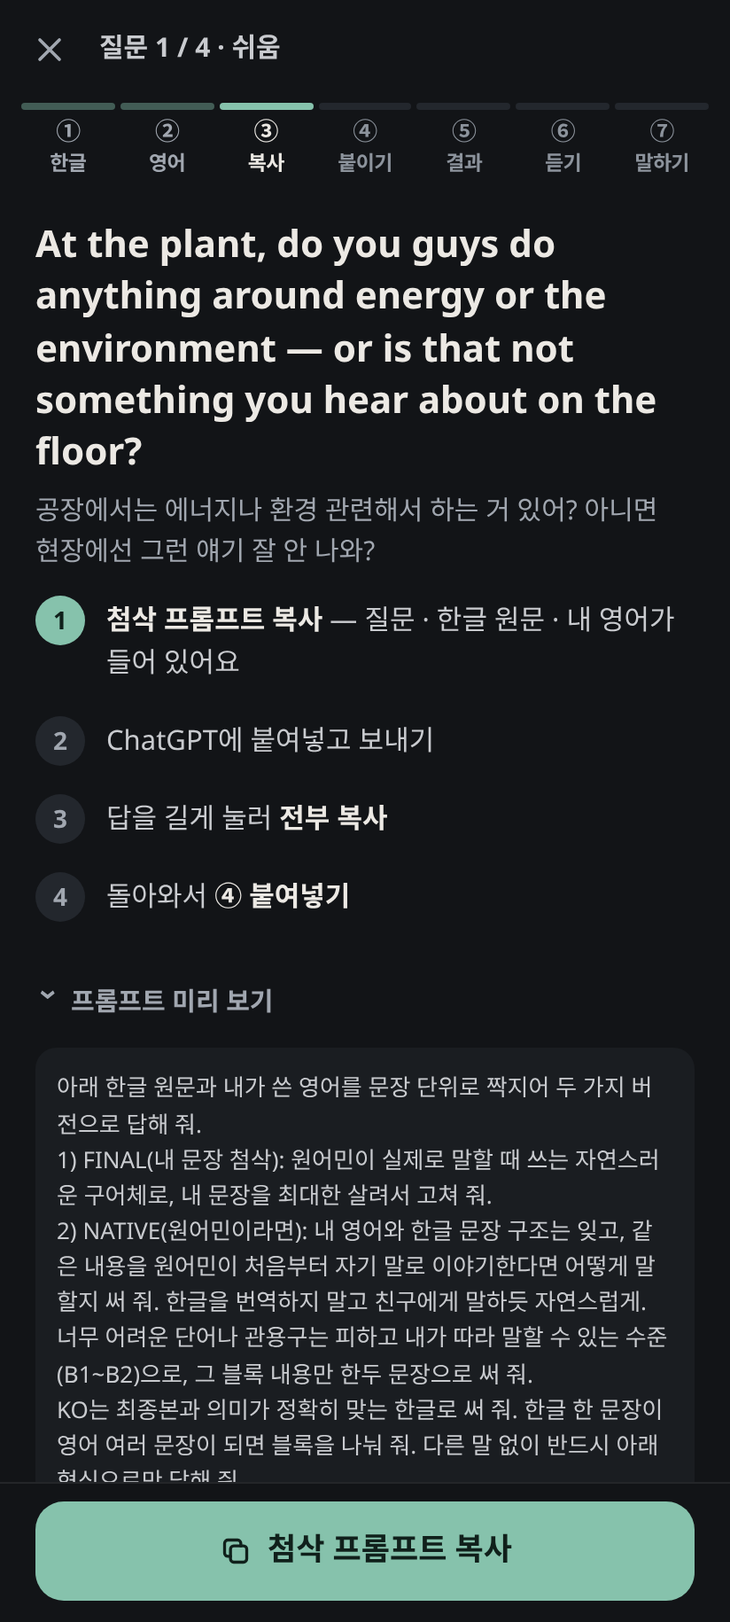
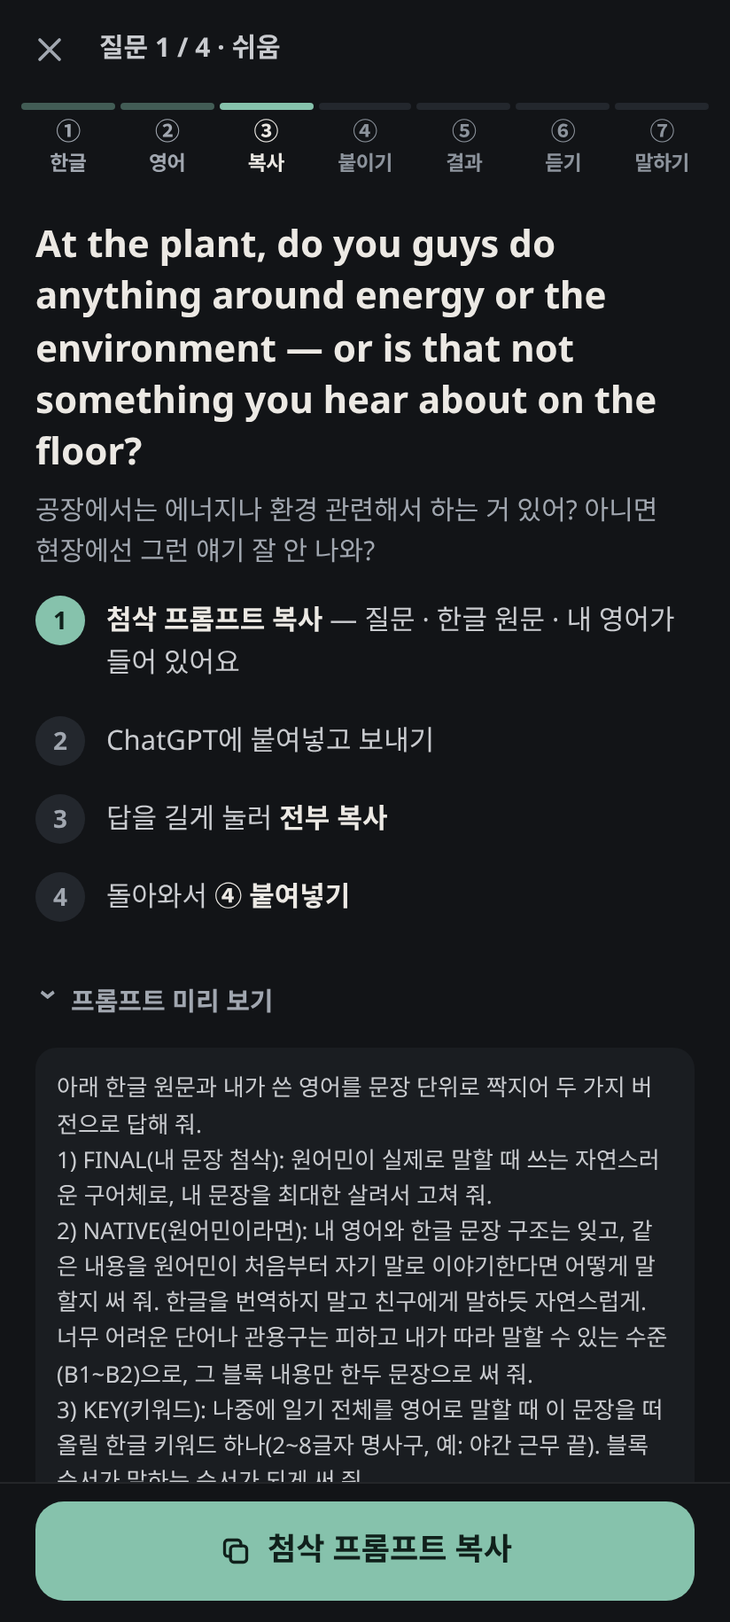
영어일기 ⑦: 키워드 보고 전체 말하기 되살림(프롬프트 KEY, 첨삭본/원어민 버전 따라 영어 보기·듣기, 옛 기록은 흐름·한글 앞부분으로) (v18)

Changed region(s): [[0.0607, 0.841, 0.9102, 0.9344]]

diff --git a/index.html b/index.html
@@ -3,7 +3,7 @@
 <html lang="ko">
 <head>
 <meta charset="utf-8">
-<meta http-equiv="Content-Security-Policy" content="default-src 'none'; script-src 'self' 'sha256-mlcx8WVLIJadIQ8XFgeohtDC2lemhiilt8wW+KzKQwI='; style-src 'unsafe-inline'; connect-src 'self' https://api.elevenlabs.io; media-src blob:; img-src 'self'; manifest-src 'self'; worker-src 'self'; base-uri 'none'; form-action 'none'">
+<meta http-equiv="Content-Security-Policy" content="default-src 'none'; script-src 'self' 'sha256-G3qWHWMyf1DheZ7eV2jopmNI3GPxIR/AApc+BQfwKKQ='; style-src 'unsafe-inline'; connect-src 'self' https://api.elevenlabs.io; media-src blob:; img-src 'self'; manifest-src 'self'; worker-src 'self'; base-uri 'none'; form-action 'none'">
 <meta name="viewport" content="width=device-width, initial-scale=1, viewport-fit=cover">
 <meta name="color-scheme" content="dark light">
 <meta name="theme-color" content="#121417" media="(prefers-color-scheme: dark)">
@@ -461,6 +461,10 @@
   .s7-sec.nat{ margin-top:0; padding-top:0; border-top:0; color:var(--accent); }
   .s7-v.nat{ margin-top:4px; font-size:calc(16.5px * var(--tz)); font-weight:600; color:var(--text); }
   .ver7{ margin-top:14px; }
+  .kw7-seg{ margin-top:10px; }
+  .kw7-seg button{ min-height:48px; }
+  .kw-row{ cursor:pointer; }
+  .kw-row .pe{ font-size:calc(17px * var(--tz)); }
   .ver7 button{ min-height:48px; }
   .df-add{ border-radius:4px; background:var(--yel-soft); box-shadow:0 0 0 2px var(--yel-soft); color:var(--text); }
   .df-del{ color:var(--red); text-decoration:line-through; text-decoration-thickness:1.5px; opacity:.85; }
@@ -1769,11 +1773,12 @@ function applyPaste(it, text) {
 /* =====================================================================
    일기 첨삭 프롬프트 · 결과 읽기 (2026-11-17 — 일기 7단계. 오픽은 위 opicPrompt·parseFix 그대로)
    d7Prompt: 지시문(사용자가 정한 글 — 한 글자도 바꾸지 않음) + 질문(영어·한글) + 한글 원문 + 내 영어
-   답 형식: ### 로 나눈 블록마다 KO / MY / FINAL / TYPE(통과·단어수정·구조수정) / WHY / NATIVE(원어민이라면 — 2026-11-17 추가, 없는 옛 답도 읽음)
+   답 형식: ### 로 나눈 블록마다 KO / MY / FINAL / TYPE(통과·단어수정·구조수정) / WHY / NATIVE(원어민이라면) / KEY(한글 키워드 — ⑦ 키워드 보고 말하기) — NATIVE·KEY는 2026-11-17 추가, 없는 옛 답도 읽음
    ===================================================================== */
 const D7_INSTR = "아래 한글 원문과 내가 쓴 영어를 문장 단위로 짝지어 두 가지 버전으로 답해 줘.\n" +
   "1) FINAL(내 문장 첨삭): 원어민이 실제로 말할 때 쓰는 자연스러운 구어체로, 내 문장을 최대한 살려서 고쳐 줘.\n" +
   "2) NATIVE(원어민이라면): 내 영어와 한글 문장 구조는 잊고, 같은 내용을 원어민이 처음부터 자기 말로 이야기한다면 어떻게 말할지 써 줘. 한글을 번역하지 말고 친구에게 말하듯 자연스럽게. 너무 어려운 단어나 관용구는 피하고 내가 따라 말할 수 있는 수준(B1~B2)으로, 그 블록 내용만 한두 문장으로 써 줘.\n" +
+  "3) KEY(키워드): 나중에 일기 전체를 영어로 말할 때 이 문장을 떠올릴 한글 키워드 하나(2~8글자 명사구, 예: 야간 근무 끝). 블록 순서가 말하는 순서가 되게 써 줘.\n" +
   "KO는 최종본과 의미가 정확히 맞는 한글로 써 줘. 한글 한 문장이 영어 여러 문장이 되면 블록을 나눠 줘. 다른 말 없이 반드시 아래 형식으로만 답해 줘.\n" +
   "###\n" +
   "KO: (한글 문장)\n" +
@@ -1782,6 +1787,7 @@ const D7_INSTR = "아래 한글 원문과 내가 쓴 영어를 문장 단위로 
   "TYPE: 통과 / 단어수정 / 구조수정 중 하나\n" +
   "WHY: (한국어 한 줄 설명, 통과면 비움)\n" +
   "NATIVE: (같은 내용을 원어민이 직접 말한다면)\n" +
+  "KEY: (한글 키워드 하나)\n" +
   "###";
 function d7Prompt(q, ko, en) {
   return D7_INSTR + "\n\n" +
@@ -1792,14 +1798,15 @@ function d7Prompt(q, ko, en) {
 /* 읽기(너그럽게): 코드블록·굵게·`코드`·글머리(- * >)·번호(1. 1) ①)·전각 콜론·대소문자·한글 이름표(한글/내 영어/최종/유형/이유) 무시.
    ### 줄로 블록을 나눔. ###가 없거나 빠졌으면 이미 나온 이름표가 다시 나올 때 새 블록. 맨 앞·맨 뒤의 이름표 없는 글(인사말 등)은 버림.
    블록 = FINAL이 있으면 읽음. 이름표가 없거나 FINAL이 없는 블록은 번호(n번째)로 bad에 → 화면에 알림, 나머지는 저장
-   → { sents: [{ ko, my, final, type, why, native? }], bad: [블록 번호], noKo: [블록 번호], total } — native는 있을 때만 */
+   → { sents: [{ ko, my, final, type, why, native?, key? }], bad: [블록 번호], noKo: [블록 번호], total } — native는 있을 때만 */
 const D7_KEYS = [
   ["ko", /^(?:ko|kr|kor|korean|한글|한국어|한글\s*문장|번역)$/i],
   ["my", /^(?:my|mine|my\s*english|me|내\s*영어|내가\s*쓴\s*영어|내\s*문장|원문)$/i],
   ["final", /^(?:final|fin|최종|최종본|최종\s*영어|최종\s*문장|고친\s*문장)$/i],
   ["type", /^(?:type|유형|타입|종류)$/i],
   ["why", /^(?:why|reason|이유|설명)$/i],
-  ["native", /^(?:native|native\s*version|nat|natural|원어민|원어민\s*버전|원어민이라면|네이티브)$/i]
+  ["native", /^(?:native|native\s*version|nat|natural|원어민|원어민\s*버전|원어민이라면|네이티브)$/i],
+  ["key", /^(?:key|keys|keyword|keywords|kw|cue|키워드|핵심어|핵심\s*키워드|한글\s*키워드)$/i]
 ];
 function d7Key(name) { const n = name.replace(/\s+/g, " ").trim(); const k = D7_KEYS.find(x => x[1].test(n)); return k ? k[0] : null; }
 function d7Clean(src) {
@@ -1852,6 +1859,8 @@ function parseD7(raw) {
     const s = { ko, my, final: fin, type: d7Type(f.type, my, fin), why: unquote(f.why) };
     const nat = unquote(f.native);
     if (nat && /[A-Za-z]/.test(nat)) s.native = nat;                           // 원어민 버전 — 없으면 칸을 안 만듦(옛 답과 같은 모양)
+    const key = unquote(f.key).replace(/^[\[(（]\s*|\s*[\])）]$/g, "").trim();
+    if (key) s.key = key.length > 30 ? key.slice(0, 30) + "…" : key;           // ⑦ 키워드 보고 말하기 — 없으면 칸을 안 만듦
     sents.push(s);
   });
   return { sents, bad, noKo, total: recs.length };
@@ -2426,7 +2435,7 @@ function renderDiary(w, q, it, n) {
     const val = F.pdraft != null ? F.pdraft : it.paste || "";
     body = '<p class="q-ko" style="margin-top:4px">ChatGPT 답을 전부 복사해서 아래에 붙여넣고 [적용]을 눌러요. 앞뒤 인사말이나 번호가 섞여 있어도 괜찮아요.</p>' +
       d7NoticeHtml(it) +
-      '<textarea class="wr paste7" id="d7Paste" placeholder="###&#10;KO: …&#10;MY: …&#10;FINAL: …&#10;TYPE: …&#10;WHY: …&#10;NATIVE: …&#10;###" spellcheck="false">' + esc(val) + "</textarea>" +
+      '<textarea class="wr paste7" id="d7Paste" placeholder="###&#10;KO: …&#10;MY: …&#10;FINAL: …&#10;TYPE: …&#10;WHY: …&#10;NATIVE: …&#10;KEY: …&#10;###" spellcheck="false">' + esc(val) + "</textarea>" +
       (sents.length ? '<p class="note">지금 저장된 문장 ' + sents.length + "개 · 다시 적용하면 바뀌어요</p>" : "");
     foot = '<div class="two"><button class="outline-btn sm" data-act="d7-clip">' + IC.paste + '<span>클립보드</span></button>' +
       '<button class="go" data-act="d7-apply" ' + (val.trim() ? "" : "disabled") + ">" + IC.check + "적용</button></div>" +
@@ -2453,8 +2462,10 @@ function renderDiary(w, q, it, n) {
     foot = '<button class="go" data-act="d7-next">⑦ 말하기 연습으로' + IC.arrow + "</button>";
   } else if (v === 6) {                                                      // ⑦ 말하기 연습
     const nat = useNative(sents), list = sents.map(s => ({ ko: s.ko, final: sayOf(s, nat) }));
-    [body, foot] = spkView(list, "q:" + F.ch + ":" + F.qid + ":" + hashStr(list.map(s => s.final).join("\n")), "질문 완료", true);
-    body = ver7Html(sents) + body;
+    kwSync();
+    if (KW.mode === "kw") [body, foot] = kwView(it, sents, nat);
+    else [body, foot] = spkView(list, "q:" + F.ch + ":" + F.qid + ":" + hashStr(list.map(s => s.final).join("\n")), "질문 완료", true, "kw7-kw");
+    body = ver7Html(sents) + kwModeHtml() + body;
   } else {                                                                   // 완료
     const nx = nextEntry(w);
     body = '<div class="donebox"><div class="em">🎉</div><h2>질문 ' + n + " 완료</h2><p>" + esc(q.ko) + "</p></div>" +
@@ -2467,7 +2478,7 @@ function renderDiary(w, q, it, n) {
   FL.foot.innerHTML = foot;
   if (v === 0) srPaint();
   if (v === 5) setupL7();
-  if (v === 6) setupRecite();
+  if (v === 6) { if (KW.mode === "kw") setupKw(); else setupRecite(); }
 }
 function d7Input(it, t) {
   if (t.id === "d7Ko") {
@@ -2541,16 +2552,105 @@ async function onDiaryAct(w, q, it, act, b) {
     if (swapQuestion(w, F.qid)) { F.qid = w.qs[slot]; buzz(); toast("다른 질문으로 바꿨어요"); enterQuestion(w, F.qid); renderFlow(); }
     return;
   }
-  if (act.startsWith("sp7-")) {
-    spkAct(act, () => {                                                       // ⑦ 끝 → 질문 완료
-      it.step = "done";
-      if (!it.doneOn) it.doneOn = dateKey();
-      it.p7 = 6;
-      SPK.key = "";
-      F.view = D7_DONE;
-      save(); buzz(); renderFlow(); FL.body.scrollTop = 0;
-    });
+  const finish = () => {                                                      // ⑦ 끝 → 질문 완료
+    it.step = "done";
+    if (!it.doneOn) it.doneOn = dateKey();
+    it.p7 = 6;
+    SPK.key = "";
+    KW.q = "";
+    F.view = D7_DONE;
+    save(); buzz(); renderFlow(); FL.body.scrollTop = 0;
+  };
+  if (act.startsWith("sp7-")) { spkAct(act, finish); return; }
+  if (act.startsWith("kw7-")) { kwAct(it, act, b, finish); return; }
+  if (act === "sp-play") { recPlay(); return; }
+  if (act === "sp-save") { recSave(); return; }
+}
+
+/* ---------- ⑦ 키워드 보고 말하기 (2026-11-17 — 7단계로 바꿀 때 빠졌던 '키워드 보고 말하기'를 ⑦ 안의 방식으로 되살림) ----------
+   ⑦ 위 [한 문장씩 | 키워드로 전체]. 키워드로 전체 = 한글 키워드(.kw-seq, 문장 순서)만 보고 일기 전체를 영어로 → [말하기 시작](타이머 + 녹음, 예전 말하기 단계와 같은 코드)
+   → [다 말했어요] → [영어 보기] = 전체 영어(첨삭본/원어민 버전 토글을 따름) + [전체 듣기]·문장 누르면 그 문장만 → [질문 완료].
+   키워드: 문장마다 KEY(새 프롬프트) → 없으면 옛 기록의 [흐름](→로 나눔) → 그것도 없으면 한글 문장 앞 두 어절 + "…".
+   KW = 지금 질문의 방식·영어 보기(저장 안 함 — 질문을 바꾸면 한 문장씩부터). 말한 시간은 it.kwSpoke { sec, on } */
+const KW = { q: "", mode: "sent", shown: false };
+function kwSync() { const q = F.ch + ":" + F.qid; if (KW.q !== q) Object.assign(KW, { q, mode: "sent", shown: false }); }
+const kwFromKo = ko => { const w = String(ko || "").trim().replace(/[.,!?。…~]+$/, "").split(/\s+/).filter(Boolean); return w.length ? w.slice(0, 2).join(" ") + (w.length > 2 ? " …" : "") : ""; };
+/* → { list: [키워드], src: "key" | "flow" | "ko" | "mix" } */
+function kwCues(it) {
+  const ss = sentsOf(it), withKey = ss.filter(s => s.key).length;
+  if (withKey) return { list: ss.map((s, i) => s.key || kwFromKo(s.ko) || (i + 1) + "번 문장"), src: withKey === ss.length ? "key" : "mix" };
+  const flow = String(it && it.flow || "").split(/\s*(?:→|->|⇒|>)\s*/).map(x => x.trim()).filter(Boolean);
+  if (flow.length > 1) return { list: flow, src: "flow" };
+  return { list: ss.map((s, i) => kwFromKo(s.ko) || (i + 1) + "번 문장"), src: "ko" };
+}
+/* 목표 시간 = 말할 영어 단어 수 × 0.6초(예전 말하기 단계와 같음), 10초 단위, 30초~2분 30초 */
+const kwGoal = texts => Math.max(30, Math.min(150, Math.round(texts.reduce((n, t) => n + wordCount(t), 0) * 0.6 / 10) * 10));
+function kwModeHtml() {
+  return '<div class="seg kw7-seg" role="group" aria-label="말하기 방식"><button data-act="kw7-sent" aria-pressed="' + (KW.mode !== "kw") + '">한 문장씩</button>' +
+    '<button data-act="kw7-kw" aria-pressed="' + (KW.mode === "kw") + '">🔑 키워드로 전체</button></div>';
+}
+function kwView(it, sents, nat) {
+  const ctx = "kw:" + F.qid, state = timerState(ctx), cues = kwCues(it), texts = sents.map(s => sayOf(s, nat)), goal = kwGoal(texts);
+  const srcNote = cues.src === "flow" ? "예전 첨삭의 [흐름]으로 보여 줘요." : cues.src === "ko" ? "키워드가 없는 답이라 한글 문장 앞부분으로 보여 줘요." : cues.src === "mix" ? "키워드가 없는 문장은 한글 앞부분으로 보여 줘요." : "";
+  let body = '<div class="box-t" style="margin-top:18px">한글 키워드를 순서대로 보며 일기 전체를 영어로 말해 보세요</div>' +
+    '<ol class="kw-seq" id="kwSeq">' + cues.list.map(k => "<li>" + esc(k) + "</li>").join("") + "</ol>" +
+    (srcNote ? '<p class="note">' + srcNote + "</p>" : "") +
+    timerHtml(ctx, goal, it.kwSpoke ? "지난번 " + fmtSec(it.kwSpoke.sec) + " 말했어요 · 다시 해도 돼요" : "[말하기 시작]을 누르고 말해요. 시간이 막대로 보여요",
+      '<div id="recLive">' + recLiveHtml() + "</div>") +
+    '<div id="recBox">' + recBoxHtml() + "</div>";
+  if (KW.shown) body += '<div class="box-t" style="margin-top:18px">' + (nat ? "🗣 원어민 버전" : "✏ 첨삭본") + " 전체</div>" +
+    '<div class="l7-bar"><button class="ls-play" data-act="kw7-play">' + IC.play + "전체 듣기</button></div>" +
+    '<ul class="pairs" id="kwList">' + texts.map((t, i) => '<li class="pair ls-row kw-row" data-act="kw7-one" data-i="' + i + '"><span class="pn">' + (i + 1) + '</span><div class="pb"><div class="pe" lang="en">' +
+      scriptHtml(t) + "</div></div></li>").join("") + "</ul>" +
+    '<p class="note">문장을 누르면 그 문장만 들어요. 외운 문장 그대로가 아니어도 괜찮아요.</p>';
+  else body += '<p class="note">외운 문장 그대로가 아니어도 괜찮아요. 막히면 다른 말로 돌려 말해요.</p>';
+  let foot;
+  if (state === "running") foot = '<button class="go" data-act="kw7-stop">' + IC.check + "다 말했어요</button>";
+  else if (KW.shown) foot = '<button class="go" data-act="kw7-finish">' + IC.check + "질문 완료</button>" +
+    '<div class="sub-row"><button class="sub-btn" data-act="kw7-start">다시 말해 보기</button></div>';
+  else if (state === "stopped") foot = '<button class="go" data-act="kw7-show">' + IC.speaker + "영어 보기</button>" +
+    '<div class="sub-row"><button class="sub-btn" data-act="kw7-start">다시 말해 보기</button></div>';
+  else foot = '<button class="go" data-act="kw7-start">' + IC.play + "말하기 시작</button>" +
+    '<div class="sub-row"><button class="sub-btn" data-act="kw7-show">시간 재지 않고 영어 보기</button></div>';
+  return [body, foot];
+}
+function setupKw() {
+  setupTimer();
+  if (!KW.shown || !FL.body.querySelector(".kw-row")) return;
+  F.rd = lsReader(".kw-row", { rate: () => settings.lsRate, gap: 450, onChange: paintKw });
+  paintKw();
+}
+function paintKw() {
+  const b = FL.body.querySelector('[data-act="kw7-play"]');
+  if (!b || !F.rd) return;
+  const s = F.rd.state(), all = s.active && !s.single;
+  b.innerHTML = all && !s.paused ? IC.pause + "일시정지" : all ? IC.play + "이어 듣기" : IC.play + "전체 듣기";
+}
+function kwAct(it, act, b, finish) {
+  const ctx = "kw:" + F.qid;
+  if (act === "kw7-sent" || act === "kw7-kw") {
+    const m = act === "kw7-kw" ? "kw" : "sent";
+    if (KW.mode === m) return;
+    KW.mode = m; KW.shown = false; SPK.key = "";
+    buzz(); renderFlow(); FL.body.scrollTop = 0; return;
   }
+  if (act === "kw7-start") {
+    const sents = sentsOf(it), nat = useNative(sents);
+    KW.shown = false;
+    recStart(ctx, fChapter().qs.indexOf(F.qid) + 1);
+    timerStart(ctx, kwGoal(sents.map(s => sayOf(s, nat))));
+    return;
+  }
+  if (act === "kw7-stop") { const sec = timerStop(); recStop(); if (sec != null) { it.kwSpoke = { sec, on: dateKey() }; save(); } renderFlow(); return; }
+  if (act === "kw7-show") { KW.shown = true; buzz(); renderFlow(); const l = $("kwList"); if (l) autoScroll(FL.body, FL.body.scrollTop + l.getBoundingClientRect().top - FL.body.getBoundingClientRect().top - 120); return; }
+  if (act === "kw7-play") { if (!F.rd) return; const s = F.rd.state(); if (s.active && !s.single) F.rd.toggle(); else F.rd.play(0, 0, false); buzz(); return; }
+  if (act === "kw7-one") {
+    if (!F.rd) return;
+    const i = +b.dataset.i, s = F.rd.state();
+    if (s.active && s.single && s.index === i) F.rd.stop(); else F.rd.play(i, 0, true);
+    return;
+  }
+  if (act === "kw7-finish") finish();
 }
 
 /* ---------- ① 음성 입력 (Web Speech API, ko-KR) ----------
@@ -2681,7 +2781,7 @@ function spkSync(key, n) {
   Object.assign(SPK, { key, n, order: Array.from({ length: n }, (_, i) => i), i: 0, shown: false, shuf: false });
 }
 /* list = [{ ko, final, sub?(질문 이름) }] · finish = 마지막 버튼 글 · subFinish = 마지막 전에도 작은 [finish] 버튼 */
-function spkView(list, key, finish, subFinish) {
+function spkView(list, key, finish, subFinish, lastAct) {          // lastAct = 마지막 카드의 큰 버튼을 [키워드 보고 말하기로]로(일기 ⑦)
   spkSync(key, list.length);
   const n = list.length;
   if (!n) return ['<div class="warn">말해 볼 문장이 없어요.</div>', ""];
@@ -2698,9 +2798,9 @@ function spkView(list, key, finish, subFinish) {
   body += "</div>";
   const prev = '<button class="outline-btn sm" data-act="sp7-prev" ' + (SPK.i ? "" : "disabled") + ">이전</button>";
   let foot = SPK.shown
-    ? '<div class="two">' + prev + (last ? '<button class="go" data-act="sp7-finish">' + IC.check + esc(finish) + "</button>" : '<button class="go" data-act="sp7-next">다음 문장' + IC.arrow + "</button>") + "</div>"
+    ? '<div class="two">' + prev + (last ? (lastAct ? '<button class="go" data-act="' + lastAct + '">키워드로 전체 말하기' + IC.arrow + "</button>" : '<button class="go" data-act="sp7-finish">' + IC.check + esc(finish) + "</button>") : '<button class="go" data-act="sp7-next">다음 문장' + IC.arrow + "</button>") + "</div>"
     : '<div class="two">' + prev + '<button class="go" data-act="sp7-show">' + IC.speaker + "영어 보기</button></div>";
-  if (subFinish && !(SPK.shown && last)) foot += '<div class="sub-row"><button class="sub-btn" data-act="sp7-finish">' + esc(finish) + "</button></div>";
+  if (subFinish && (lastAct || !(SPK.shown && last))) foot += '<div class="sub-row"><button class="sub-btn" data-act="sp7-finish">' + esc(finish) + "</button></div>";
   return [body, foot];
 }
 function spkAct(act, onFinish) {
@@ -3341,7 +3441,7 @@ function goNext(w) {
 const nextLabel = nx => nx.kind === "q" ? "다음: 질문 " + nx.n : nx.kind === "gpt" ? "다음: GPT 대화 " + nx.n : "다음: 챕터 복습";
 /* 지금 화면의 타이머 이름(다르면 타이머를 지움) · 암송 카드 이름(다르면 영어를 다시 숨김) */
 function flowCtx() {
-  if (F.kind === "q") return F.warm ? "warm:" + F.qid : F.op && F.view === 4 ? "speak:" + F.qid : "";
+  if (F.kind === "q") return F.warm ? "warm:" + F.qid : F.op && F.view === 4 ? "speak:" + F.qid : !F.op && F.view === 6 && KW.mode === "kw" && KW.q === F.ch + ":" + F.qid ? "kw:" + F.qid : "";
   if (F.kind === "review") { const w = fChapter(), rv = w && w.review; return rv && rv.phase === "cond" ? "rv:" + rv.cq[rv.ci] : ""; }
   return "";
 }

diff --git a/sw.js b/sw.js
@@ -5,7 +5,7 @@
      앱 화면에는 "새 버전이 나왔어요 [새로 고침]" 막대가 뜸(index.html '앱 업데이트').
    - 같은 github.io 주소를 쓰는 한 장 영어와 저장 공간(Cache Storage)을 같이 쓰므로, **지울 때는 ediary- 로 시작하는 옛 저장소만** 지움.
    - ElevenLabs 같은 다른 사이트 요청, GET이 아닌 요청은 건드리지 않음(음성은 앱이 IndexedDB ediary-tts에 따로 저장). */
-const CACHE = "ediary-v17";
+const CACHE = "ediary-v18";
 const CORE = ["./", "./index.html", "./manifest.webmanifest", "./icon-192.png", "./icon-512.png", "./icon-maskable-512.png", "./data/topics.js", "./data/opic_topics.js"];
 
 self.addEventListener("install", e => {

diff --git a/CLAUDE.md b/CLAUDE.md
@@ -50,6 +50,9 @@ GitHub Pages로 배포하고 폰에 설치(PWA)해서 씀. 빌드 도구 없음 
 - ⑤ 문장 카드: 한글 / [✏ 내 문장 첨삭] 내 영어 / 최종본 / 설명 / [🗣 원어민이라면](NATIVE가 있을 때만 — 없으면 이름표도 안 나옴) + 유형 태그(통과 초록 `--accent` · 단어수정 노랑 `--yel` · 구조수정 빨강 `--red`). 내 영어↔최종본 단어 비교(`wordDiff` — 단어 LCS, 대소문자·문장부호 무시): 최종본의 바뀐·더한 단어 노란 배경, 내 영어의 빠진 단어 줄긋기.
 - ⑥ 듣기: 최종본 문장 목록, 노래방 강조 + 읽는 문장 따라 스크롤, 문장 누르면 그 문장만(다시 누르면 멈춤), [한 문장 반복](`settings.lsRep`), 속도 0.75/1/1.25(`settings.lsRate` — 듣기 탭·암송 속도 `rate`와 따로), [연속 재생], [듣기 탭에서 이어 듣기]. 음성은 예전 `Player`(ElevenLabs → IndexedDB `ediary-tts` 캐시 — 같은 글·목소리면 다시 안 부름).
 - ⑥·⑦ 위 [✏ 첨삭본 | 🗣 원어민 버전](2026-11-17, `settings.ver7` "fin"/"nat", 처음엔 첨삭본) — 원어민 버전이 있는 문장이 하나라도 있을 때만 보임. 원어민 버전이 없는 문장은 첨삭본으로. 음성 캐시는 글 기준이라 버전을 오가도 같은 글은 한 번만 만듦. 듣기 탭(드라이브)·챕터 복습·구조수정 모아보기·완료 화면은 최종본(FINAL) 그대로(`itPairs`).
+- ⑦ 위 [한 문장씩 | 🔑 키워드로 전체](2026-11-17 — 7단계로 바꿀 때 빠졌던 '키워드 보고 말하기'를 되살림, `KW` — 저장 안 함, 질문을 바꾸면 한 문장씩부터). 한 문장씩의 마지막 카드 큰 버튼 = [키워드로 전체 말하기](작은 [질문 완료]도 있음).
+  키워드로 전체: 한글 키워드(`.kw-seq`, 문장 순서)만 보고 일기 전체를 영어로 → [말하기 시작](타이머 + 녹음, 예전 말하기 단계 코드 — 타이머 이름 `kw:질문 id`, 목표 = 단어 수 × 0.6초, 30초~2분 30초) → [다 말했어요](`it.kwSpoke { sec, on }`) → [영어 보기] = 전체 영어(첨삭본/원어민 버전 토글을 따름) + [전체 듣기]·문장 누르면 그 문장만 → [질문 완료].
+  키워드(`kwCues`): 문장마다 KEY → 하나도 없으면 옛 기록의 `flow`(→로 나눔) → 그것도 없으면 한글 문장 앞 두 어절 + " …"(일부만 없으면 그 문장만 한글 앞부분). 어디서 왔는지 한 줄 안내.
 - ⑦ 말하기 연습: 한 문장씩 한글만 → [영어 보기] → 최종본 + 소리 자동 재생 → [다음 문장]/[이전], 순서 [순서대로 | 섞기](`spkView` — 구조수정 모아보기와 같은 화면). 마지막 [질문 완료](작은 [질문 완료]는 언제든).
 - 워밍업(앞 질문 키워드)은 옛 기록에 키워드가 있을 때만 나옴(새 흐름엔 키워드 없음). 챕터 복습 '조건 바꿔 말하기'도 `conds`가 있는 옛 질문만.
 - 최종본 문장 짝은 `itPairs(it)`로 읽음 — `sents`가 있으면 FINAL·KO, 없으면 옛 `pairs`. 듣기 탭(DD)·챕터 복습·GPT 대화 프롬프트·기록이 이걸 씀. 들을 게 있는지 = `hasFinal(it)`.
@@ -82,7 +85,7 @@ GitHub Pages로 배포하고 폰에 설치(PWA)해서 씀. 빌드 도구 없음 
 
 | 키 | 내용 |
 |---|---|
-| `ediary.chapters.v1` | 챕터 기록 `{ v, count, seq, chapters: [...] }` — 모양은 `index.html` '저장' 주석. 일기 항목에 2026-11-17부터 `p7`(0~6) · `ko`(① 한글) · `sents: [{ ko, my, final, type(통과/단어수정/구조수정/"" = 모름), why, native?(원어민 버전 — 2026-11-17, 있을 때만) }]` · `paste`(붙여넣은 원문) · `bad`·`noKo`(못 읽은·한글 없는 블록 번호) · `copied7` 추가. ② 내 영어는 `text` |
+| `ediary.chapters.v1` | 챕터 기록 `{ v, count, seq, chapters: [...] }` — 모양은 `index.html` '저장' 주석. 일기 항목에 2026-11-17부터 `p7`(0~6) · `ko`(① 한글) · `sents: [{ ko, my, final, type(통과/단어수정/구조수정/"" = 모름), why, native?(원어민 버전 — 2026-11-17, 있을 때만), key?(한글 키워드 — 2026-11-17, 있을 때만) }]` · `paste`(붙여넣은 원문) · `bad`·`noKo`(못 읽은·한글 없는 블록 번호) · `copied7` 추가. ② 내 영어는 `text` |
 | `ediary.chapters.v1.backup` | 7단계로 옮기기 전 챕터 원본 글(처음 한 번, 이미 있으면 안 덮음) |
 | `ediary.weeks.v1` | 옛 주 단위 기록. **지우지 않음**, 새 코드는 읽기만(옮기기용) |
 | `ediary.weeks.v1.backup` | 옮기기 전 원본 글 그대로(처음 옮길 때 한 번, 이미 있으면 안 덮음) |
@@ -112,7 +115,7 @@ GitHub Pages로 배포하고 폰에 설치(PWA)해서 씀. 빌드 도구 없음 
 
 - 일기 첨삭 프롬프트 `d7Prompt`(2026-11-17): 지시문 `D7_INSTR`(사용자가 정한 글 — 고쳐 달라는 말이 없으면 한 글자도 바꾸지 않음) + `[질문]`(영어·한글) + `[한글 원문]` + `[내가 쓴 영어]`. 지시문이 "아래 …"라서 맨 앞에 둠.
 - 두 가지 버전(2026-11-17, 사용자 요청): FINAL = 내 문장을 살려 고친 첨삭본, NATIVE = 내 영어·한글 구조와 상관없이 같은 내용을 원어민이 처음부터 말한다면(번역 아님, B1~B2로 따라 말할 수 있게, 블록당 한두 문장).
-- 답 형식: `###`로 나눈 블록마다 `KO: / MY: / FINAL: / TYPE: 통과·단어수정·구조수정 / WHY: / NATIVE:` — `parseD7`로 읽음. NATIVE는 없어도 됨(옛 답·옛 기록 그대로 읽힘), 이름표 변형 native·native version·원어민·원어민이라면·원어민 버전·네이티브, 영어 없는 NATIVE는 버림. 너그럽게: 빈 줄·번호(1. 1) ①)·굵게·`코드`·글머리(- * >)·코드블록·전각 콜론·대소문자·한글 이름표(한글·내 영어·최종·유형·이유), WHY 없음, TYPE 변형(통과(PASS)·pass·단어 수정·word·구조 수정·structure·괄호·이모지). `###`가 없으면 같은 이름표가 다시 나올 때 새 블록. 맨 앞·맨 뒤 이름표 없는 글은 버림. FINAL 없는 블록 = 못 읽은 블록(번호로 알림). 프롬프트 형식을 바꾸면 읽는 코드도 같이.
+- 답 형식: `###`로 나눈 블록마다 `KO: / MY: / FINAL: / TYPE: 통과·단어수정·구조수정 / WHY: / NATIVE: / KEY:` — `parseD7`로 읽음. KEY = ⑦ 키워드 보고 말하기용 한글 키워드 하나(2~8글자 명사구, 블록 순서 = 말하는 순서 — 문장마다 붙어서 순서가 안 어긋남), 이름표 변형 key·keyword·kw·키워드·핵심어, 앞뒤 괄호 벗김, 30자 넘으면 자름. NATIVE·KEY는 없어도 됨(옛 답·옛 기록 그대로 읽힘), 이름표 변형 native·native version·원어민·원어민이라면·원어민 버전·네이티브, 영어 없는 NATIVE는 버림. 너그럽게: 빈 줄·번호(1. 1) ①)·굵게·`코드`·글머리(- * >)·코드블록·전각 콜론·대소문자·한글 이름표(한글·내 영어·최종·유형·이유), WHY 없음, TYPE 변형(통과(PASS)·pass·단어 수정·word·구조 수정·structure·괄호·이모지). `###`가 없으면 같은 이름표가 다시 나올 때 새 블록. 맨 앞·맨 뒤 이름표 없는 글은 버림. FINAL 없는 블록 = 못 읽은 블록(번호로 알림). 프롬프트 형식을 바꾸면 읽는 코드도 같이.
 - 옛 일기 프롬프트 `fixPrompt`(`[최종본] / [더 말하고 싶을 때] / [흐름] / [키워드] / [조건]`)는 이제 안 씀(코드는 남겨 둠).
 - 오픽 첨삭 프롬프트 `opicPrompt`는 `[최종본] / [흐름]`만 받음(같은 `parseFix`로 읽음).
 - `opicPrompt`(2026-10-30): 목표 AL, 2026-10-29부터 AI 자동 채점(ACTFL 기준 그대로) 반영 — 질문 적중·암기 티 제거·미국식 구어·ASR에 잘 잡히는 15단어 이하 문장.
@@ -130,7 +133,7 @@ GitHub Pages로 배포하고 폰에 설치(PWA)해서 씀. 빌드 도구 없음 
 
 ## 테스트
 
-- 원어민 버전 테스트: `/workspace/ediary-test/test-native.js`(`node test-native.js` — 스크린샷 `shots/native-*.png`).
+- 원어민 버전 테스트: `/workspace/ediary-test/test-native.js`(`node test-native.js` — 스크린샷 `shots/native-*.png`·`shots/kw-*.png` — 키워드 보고 말하기도 여기서).
 - 7단계 흐름 테스트: `/workspace/ediary-test/test7.js`(`node test7.js` — 서버를 직접 띄움, ElevenLabs·음성 인식은 가짜, 스크린샷 `shots/flow-*.png`).
 - 로컬: 저장소 폴더에서 `python3 -m http.server <포트>` → `http://127.0.0.1:<포트>/index.html?debugDate=…`. (서비스워커는 https에서만 등록)
 - 저장 형식·화면 흐름을 바꾸면 헤드리스 Chrome(Playwright)으로 **옛 기록이 있는 상태**와 **빈 상태**를 둘 다 확인:
